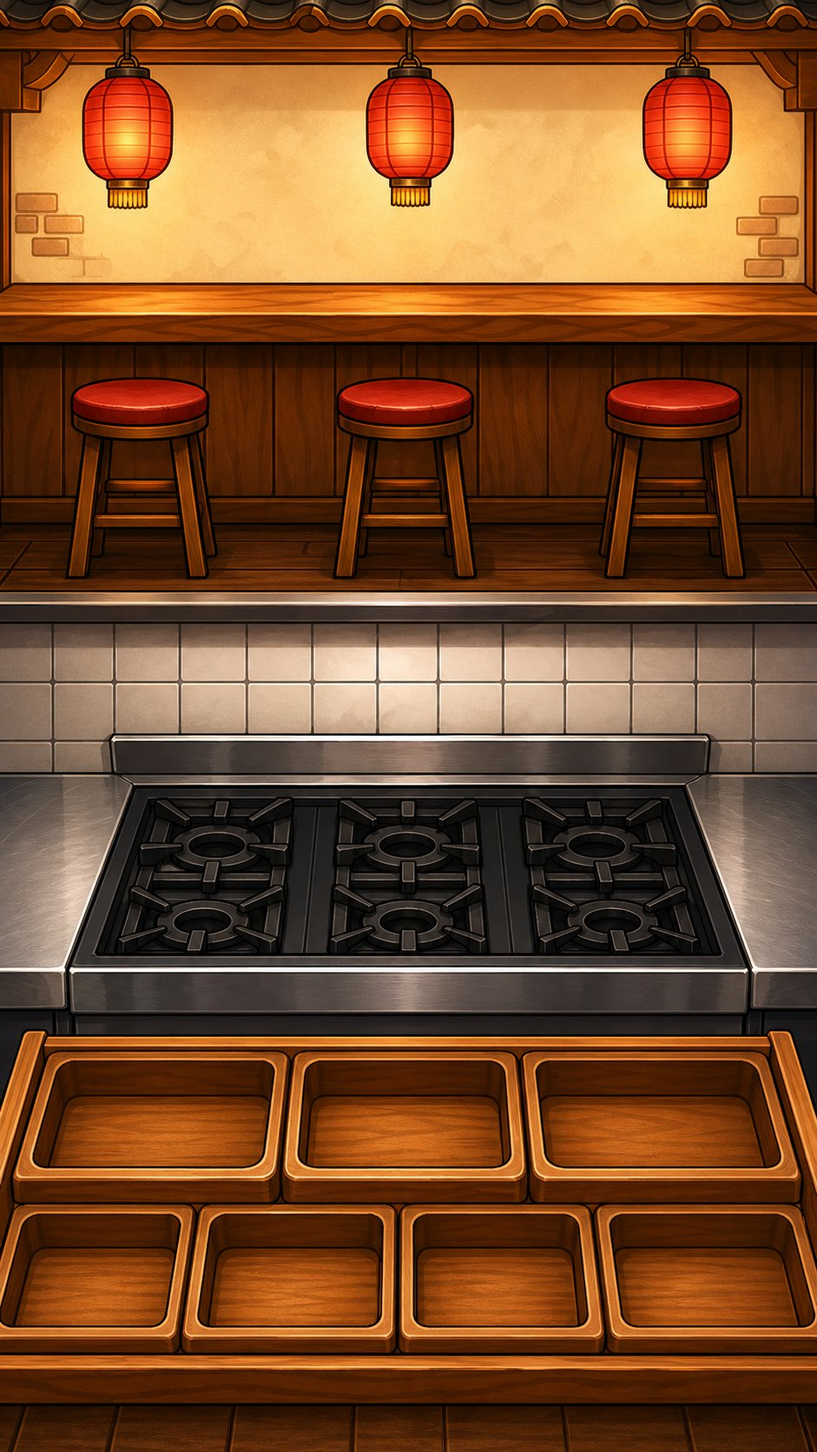
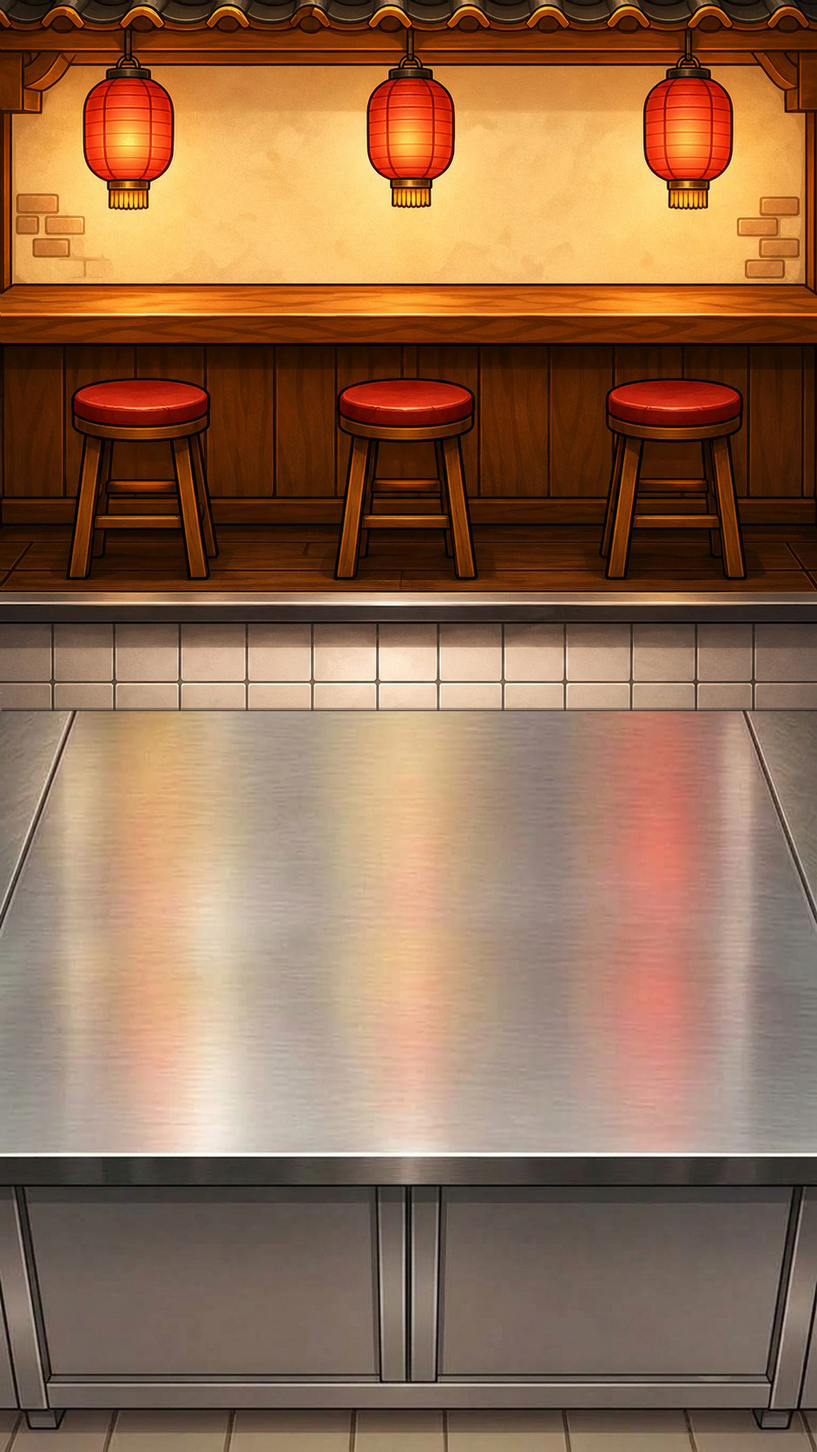
feat: UI 아틀라스 적용 및 메뉴판/타이틀/재료 트레이 레이아웃 개선
- 조리대 배경(kitchen_bg) 확장 및 스테이션 위치 최적화
- 신규 UI 아틀라스(ui_atlas) 적용 및 크로마키 투명화 정렬
- 메인 타이틀 화면 '이어서 영업하기' 버튼 텍스트 오버플로우 방지
- 오늘의 메뉴판 헤더/부제 간격 조정 및 테두리 침범 방지
- 인게임 하단 재료 트레이 폭 확장 및 흰색 한지 배경 내 정렬 최적화

diff --git a/src/components/Screens/MenuBoard.tsx b/src/components/Screens/MenuBoard.tsx
@@ -17,57 +17,57 @@ export function MenuBoard({ save, onOpen, onShop }: { save: SaveData; onOpen: (m
   return (
     <div className="absolute inset-0" style={{ backgroundImage: `url(${bg.kitchen})`, backgroundSize: 'cover', backgroundPosition: 'center' }}>
       <div className="absolute inset-0" style={{ background: 'rgba(15,6,3,0.72)' }} />
-      <div className="absolute w-full text-center" style={{ top: 10 }}>
-        <div className="font-black stroke" style={{ fontSize: 26, color: '#ffe56a' }}>Day {save.day} 오늘의 메뉴판</div>
-        <div className="font-bold text-white stroke-thin" style={{ fontSize: 11 }}>{save.day <= 4 ? '새 메뉴가 해금되었습니다!' : '모든 메뉴가 섞여 주문됩니다'}</div>
+      <div className="absolute w-full text-center flex flex-col items-center pointer-events-none" style={{ top: 6, zIndex: 10 }}>
+        <div className="font-black stroke" style={{ fontSize: 21, color: '#ffe56a', lineHeight: '25px' }}>Day {save.day} 오늘의 메뉴판</div>
+        <div className="font-bold text-white stroke-thin" style={{ fontSize: 11, lineHeight: '14px', marginTop: 1 }}>{save.day <= 4 ? '새 메뉴가 해금되었습니다!' : '모든 메뉴가 섞여 주문됩니다'}</div>
       </div>
       {/* 메뉴판 */}
-      <div className="absolute" style={{ left: 10, top: 58, width: 340, height: 230 }}>
-        <SpriteBox src={atlas.ui} frame={UI.panel} width={340} height={230} style={{ position: 'absolute', inset: 0, pointerEvents: 'none' }} />
-        <div className="absolute grid grid-cols-2" style={{ left: 22, top: 15, width: 296, height: 200, gap: 4 }}>
+      <div className="absolute" style={{ left: 10, top: 48, width: 340, height: 236 }}>
+        <SpriteBox src={atlas.ui} frame={UI.panel} width={340} height={236} style={{ position: 'absolute', inset: 0, pointerEvents: 'none' }} />
+        <div className="absolute grid grid-cols-2" style={{ left: 44, top: 38, width: 252, height: 160, gap: '4px 6px' }}>
           {MENU_ORDER.map((id) => {
             const m = RECIPES[id];
             const locked = !unlocked.includes(id);
             const active = sel === id;
             return (
               <div key={id} className="relative flex flex-col items-center justify-center" style={{ minWidth: 0, height: '100%', cursor: locked ? 'default' : 'pointer' }} onClick={() => !locked && setSel(id)}>
-                <Sprite src={atlas.food} frame={m.foodFrame} size={62} style={{ flexShrink: 0, filter: locked ? 'grayscale(1) brightness(0.5)' : active ? 'drop-shadow(0 0 10px #ffe56a)' : 'drop-shadow(0 3px 3px rgba(0,0,0,0.4))' }} />
-                <div className="font-black text-center flex items-center justify-center" style={{ width: '100%', height: 24, padding: '0 3px', fontSize: 11.5, color: locked ? '#888' : active ? '#b3261e' : '#3b1d0e', lineHeight: '12px', wordBreak: 'keep-all', overflowWrap: 'anywhere' }}>{m.name}</div>
-                <div className="font-bold" style={{ fontSize: 10, lineHeight: '11px', color: locked ? '#777' : '#6b3b1c' }}>{locked ? `Day ${MENU_ORDER.indexOf(id) + 1} 해금` : `${m.price.toLocaleString()}원`}</div>
-                {locked && <Sprite src={atlas.ui} frame={UI.lock} size={36} className="absolute pointer-events-none" style={{ top: 14, left: '50%', transform: 'translateX(-50%)' }} />}
+                <Sprite src={atlas.food} frame={m.foodFrame} size={40} style={{ flexShrink: 0, filter: locked ? 'grayscale(1) brightness(0.5)' : active ? 'drop-shadow(0 0 6px #ffe56a)' : 'drop-shadow(0 2px 2px rgba(0,0,0,0.4))' }} />
+                <div className="font-black text-center flex items-center justify-center" style={{ width: '100%', height: 16, padding: '0 2px', fontSize: 11, color: locked ? '#888' : active ? '#b3261e' : '#3b1d0e', lineHeight: '12px', wordBreak: 'keep-all', overflowWrap: 'anywhere' }}>{m.name}</div>
+                <div className="font-bold" style={{ fontSize: 9, lineHeight: '10px', color: locked ? '#777' : '#6b3b1c' }}>{locked ? `Day ${MENU_ORDER.indexOf(id) + 1} 해금` : `${m.price.toLocaleString()}원`}</div>
+                {locked && <Sprite src={atlas.ui} frame={UI.lock} size={26} className="absolute pointer-events-none" style={{ top: 8, left: '50%', transform: 'translateX(-50%)' }} />}
               </div>
             );
           })}
         </div>
       </div>
       {/* 선택 메뉴 상세 */}
-      <div className="absolute" style={{ left: 10, top: 294, width: 340, height: 254 }}>
-        <SpriteBox src={atlas.ui} frame={UI.panel} width={340} height={254} style={{ position: 'absolute', inset: 0, pointerEvents: 'none' }} />
-        <div key={sel} className="absolute" style={{ left: 25, top: 17, width: 290, height: 218, overflowY: 'auto', overflowX: 'hidden', touchAction: 'pan-y', overscrollBehavior: 'contain', scrollbarWidth: 'thin', scrollbarColor: '#aa6b35 transparent', padding: '0 2px 4px' }}>
+      <div className="absolute" style={{ left: 10, top: 290, width: 340, height: 266 }}>
+        <SpriteBox src={atlas.ui} frame={UI.panel} width={340} height={266} style={{ position: 'absolute', inset: 0, pointerEvents: 'none' }} />
+        <div key={sel} className="absolute" style={{ left: 44, top: 40, width: 252, height: 186, overflowY: 'auto', overflowX: 'hidden', touchAction: 'pan-y', overscrollBehavior: 'contain', scrollbarWidth: 'thin', scrollbarColor: '#aa6b35 transparent', padding: '0 2px 4px' }}>
           <div className="flex items-start" style={{ gap: 8 }}>
-            <Sprite src={atlas.food} frame={r.foodFrame} size={70} style={{ flexShrink: 0, filter: 'drop-shadow(0 2px 2px rgba(0,0,0,0.3))' }} />
+            <Sprite src={atlas.food} frame={r.foodFrame} size={48} style={{ flexShrink: 0, filter: 'drop-shadow(0 2px 2px rgba(0,0,0,0.3))' }} />
             <div style={{ minWidth: 0, flex: 1 }}>
-              <div className="font-black" style={{ fontSize: 14, lineHeight: '17px', color: '#b3261e', wordBreak: 'keep-all', overflowWrap: 'anywhere' }}>{r.name}</div>
-              <div className="font-bold" style={{ fontSize: 9.5, lineHeight: '13px', color: '#8a481c' }}>난이도 {'★'.repeat(r.difficulty)}{'☆'.repeat(4 - r.difficulty)}</div>
-              <div className="font-bold" style={{ fontSize: 10, lineHeight: '13px', color: '#4a2a12', wordBreak: 'keep-all', overflowWrap: 'anywhere' }}>{r.desc}</div>
+              <div className="font-black" style={{ fontSize: 13, lineHeight: '16px', color: '#b3261e', wordBreak: 'keep-all', overflowWrap: 'anywhere' }}>{r.name}</div>
+              <div className="font-bold" style={{ fontSize: 9, lineHeight: '12px', color: '#8a481c' }}>난이도 {'★'.repeat(r.difficulty)}{'☆'.repeat(4 - r.difficulty)}</div>
+              <div className="font-bold" style={{ fontSize: 9, lineHeight: '12px', color: '#4a2a12', wordBreak: 'keep-all', overflowWrap: 'anywhere' }}>{r.desc}</div>
             </div>
           </div>
-          <div className="font-black" style={{ fontSize: 11, color: '#3b1d0e', marginTop: 6, lineHeight: '15px' }}>필요 재료</div>
-          <div className="grid grid-cols-5" style={{ width: '100%', rowGap: 3, marginTop: 2 }}>
+          <div className="font-black" style={{ fontSize: 10.5, color: '#3b1d0e', marginTop: 4, lineHeight: '14px' }}>필요 재료</div>
+          <div className="grid grid-cols-5" style={{ width: '100%', rowGap: 2, marginTop: 2 }}>
             {r.ingredients.map((i) => (
-              <div key={i} className="flex flex-col items-center" style={{ minWidth: 0, minHeight: 43 }}>
-                <Sprite src={atlas.ingredients} frame={ING[i]} size={28} style={{ flexShrink: 0 }} />
-                <div className="font-bold text-center" style={{ width: '100%', fontSize: 8.5, lineHeight: '10px', color: '#4a2a12', wordBreak: 'keep-all', overflowWrap: 'anywhere' }}>{ING_NAME[i]}</div>
+              <div key={i} className="flex flex-col items-center" style={{ minWidth: 0, minHeight: 36 }}>
+                <Sprite src={atlas.ingredients} frame={ING[i]} size={22} style={{ flexShrink: 0 }} />
+                <div className="font-bold text-center" style={{ width: '100%', fontSize: 8, lineHeight: '10px', color: '#4a2a12', wordBreak: 'keep-all', overflowWrap: 'anywhere' }}>{ING_NAME[i]}</div>
               </div>
             ))}
           </div>
-          <div className="font-black" style={{ fontSize: 11, color: '#3b1d0e', marginTop: 6, lineHeight: '15px' }}>조리법 ({r.steps.length}단계)</div>
-          <div className="font-bold" style={{ fontSize: 10, color: '#4a2a12', lineHeight: '14px', wordBreak: 'keep-all', overflowWrap: 'anywhere' }}>{stepKinds.map((k) => kindName[k]).join(' → ')}</div>
+          <div className="font-black" style={{ fontSize: 10.5, color: '#3b1d0e', marginTop: 4, lineHeight: '14px' }}>조리법 ({r.steps.length}단계)</div>
+          <div className="font-bold" style={{ fontSize: 9, color: '#4a2a12', lineHeight: '12px', wordBreak: 'keep-all', overflowWrap: 'anywhere' }}>{stepKinds.map((k) => kindName[k]).join(' → ')}</div>
         </div>
       </div>
-      <div className="absolute w-full flex items-center justify-center gap-3" style={{ bottom: 18 }}>
-        <ImgButton label="업그레이드" onClick={onShop} kind="wood" width={120} height={56} fontSize={15} />
-        <ImgButton label="영업 시작!" onClick={() => onOpen(sel)} kind="red" width={180} height={64} fontSize={22} className="anim-pulse" />
+      <div className="absolute w-full flex items-center justify-center gap-3" style={{ bottom: 14 }}>
+        <ImgButton label="업그레이드" onClick={onShop} kind="wood" width={110} height={54} fontSize={14} />
+        <ImgButton label="영업 시작!" onClick={() => onOpen(sel)} kind="red" width={180} height={62} fontSize={20} className="anim-pulse" />
       </div>
     </div>
   );

diff --git a/src/components/Game/GameScreen.tsx b/src/components/Game/GameScreen.tsx
@@ -11,6 +11,7 @@ import { AddStep, FireStep, HeatStep, PourStep, ShakeStep, StirStep, STOVE, Tran
 import { MixStep, NoodleStep, PlateStep, ServeStep } from './steps/NoodleSteps';
 import { ChopStep, FryStep, ShapeStep, TossStep } from './steps/FrySteps';
 import { sfx } from '../../game/sfx';
+import { ImgButton } from '../ImgButton';
 
 interface Cook {
   menu: MenuId;
@@ -33,6 +34,7 @@ interface Props {
   preferredMenu: MenuId | null;
   practice?: boolean;
   onPracticeBack?: () => void;
+  onMainMenu?: () => void;
 }
 
 export function GameScreen(props: Props) {
@@ -43,7 +45,7 @@ export function GameScreen(props: Props) {
   );
 }
 
-function GameInner({ save, onMoney, onDayEnd, preferredMenu, practice, onPracticeBack }: Props) {
+function GameInner({ save, onMoney, onDayEnd, preferredMenu, practice, onPracticeBack, onMainMenu }: Props) {
   const { atlas, bg } = useAssets();
   const { dragging } = useDrag();
   const day = save.day;
@@ -344,6 +346,13 @@ function GameInner({ save, onMoney, onDayEnd, preferredMenu, practice, onPractic
     cancelTimer.current = window.setTimeout(() => setCancelArmed(false), 3000);
   };
 
+  const returnToMainMenu = () => {
+    const message = cook
+      ? '조리 중인 음식과 오늘 영업 진행을 취소하고 메인 메뉴로 돌아갈까요?'
+      : '오늘 영업을 종료하고 메인 메뉴로 돌아갈까요?';
+    if (confirm(message)) onMainMenu?.();
+  };
+
   // ── 두꺼비 포즈 ──
   const toadPose: ToadPose = toadFlash ?? (cook ? toadBase : 'idle1');
   const toadFrames = useMemo(() => (toadPose === 'idle1' && !cook ? [TOAD.idle1, TOAD.idle2] : [TOAD[toadPose]]), [toadPose, cook]);
@@ -388,6 +397,17 @@ function GameInner({ save, onMoney, onDayEnd, preferredMenu, practice, onPractic
             <span className="font-black text-yellow-200" style={{ fontSize: 11 }}>메뉴로</span>
           </div>
         </>
+      )}
+      {!practice && onMainMenu && (
+        <ImgButton
+          label="메인 메뉴"
+          onClick={returnToMainMenu}
+          kind="wood"
+          width={64}
+          height={30}
+          fontSize={10}
+          style={{ position: 'absolute', right: 4, top: 42, zIndex: 12 }}
+        />
       )}
       {/* ── 상단: 간판/돈/일차 ── */}
       <div className="absolute pointer-events-none" style={{ left: 0, top: 0, width: 360, height: 74, zIndex: 10 }}>
@@ -463,9 +483,10 @@ function GameInner({ save, onMoney, onDayEnd, preferredMenu, practice, onPractic
       </div>
 
       {/* ── 하단 재료 트레이 ── */}
-      <div className="absolute" style={{ left: 0, top: 517, width: 360, height: 123, zIndex: 9 }}>
-        <SpriteBox src={atlas.ui} frame={UI.panel} width={360} height={123} style={{ position: 'absolute', inset: 0, opacity: 0.95 }} />
-        <div className="absolute" style={{ left: 8, top: 6, width: 300, height: 112, display: 'flex', flexWrap: 'wrap', alignContent: 'flex-start' }}>
+      {/* ── 하단 재료 트레이 ── */}
+      <div className="absolute" style={{ left: -12, top: 510, width: 384, height: 130, zIndex: 9 }}>
+        <SpriteBox src={atlas.ui} frame={UI.panel} width={384} height={130} style={{ position: 'absolute', inset: 0, opacity: 0.98 }} />
+        <div className="absolute" style={{ left: 58, top: 16, width: 254, height: 96, display: 'flex', flexWrap: 'wrap', alignContent: 'flex-start', gap: '3px 2px' }}>
           {trayItems.map((id) => (
             <TrayItem key={id} id={id} highlight={neededNow.includes(id)} dim={neededNow.length > 0 && !neededNow.includes(id)} />
           ))}
@@ -481,11 +502,11 @@ function GameInner({ save, onMoney, onDayEnd, preferredMenu, practice, onPractic
           data-drop="trash"
           onClick={cancelCook}
           className={orderCustomerLeft && cook ? 'absolute anim-pulse' : 'absolute'}
-          style={{ right: 2, top: 18, width: 60, height: 86, border: 0, padding: 0, background: 'transparent', cursor: cook ? 'pointer' : 'default', touchAction: 'manipulation', opacity: cook ? 1 : 0.5 }}
+          style={{ right: 18, top: 18, width: 48, height: 76, border: 0, padding: 0, background: 'transparent', cursor: cook ? 'pointer' : 'default', touchAction: 'manipulation', opacity: cook ? 1 : 0.5 }}
         >
-          <Sprite src={atlas.ui} frame={UI.btnRound} size={60} className="pointer-events-none" style={{ position: 'absolute', top: 0, left: 0, filter: orderCustomerLeft ? 'drop-shadow(0 0 8px #ff8e55)' : undefined }} />
-          <Sprite src={atlas.ui} frame={orderCustomerLeft ? UI.x : UI.trash} size={32} className="pointer-events-none" style={{ position: 'absolute', left: 14, top: 12 }} />
-          <span className="absolute font-black text-white stroke-thin pointer-events-none" style={{ left: 0, top: 63, width: 60, fontSize: 10 }}>{cancelArmed && !orderCustomerLeft ? '다시 누르기' : '조리 취소'}</span>
+          <Sprite src={atlas.ui} frame={UI.btnRound} size={48} className="pointer-events-none" style={{ position: 'absolute', top: 0, left: 0, filter: orderCustomerLeft ? 'drop-shadow(0 0 8px #ff8e55)' : undefined }} />
+          <Sprite src={atlas.ui} frame={orderCustomerLeft ? UI.x : UI.trash} size={24} className="pointer-events-none" style={{ position: 'absolute', left: 12, top: 12 }} />
+          <span className="absolute font-black text-white stroke-thin pointer-events-none" style={{ left: 0, top: 52, width: 48, fontSize: 9 }}>{cancelArmed && !orderCustomerLeft ? '다시 누르기' : '조리 취소'}</span>
         </button>
       </div>
     </div>
@@ -496,10 +517,10 @@ function TrayItem({ id, highlight, dim }: { id: IngredientId; highlight: boolean
   const { atlas } = useAssets();
   const { startDrag } = useDrag();
   return (
-    <div className="flex flex-col items-center" style={{ width: 50, height: 56, touchAction: 'none', opacity: dim ? 0.55 : 1 }}
+    <div className="flex flex-col items-center justify-center" style={{ width: 48, height: 42, touchAction: 'none', opacity: dim ? 0.55 : 1, cursor: 'grab' }}
       onPointerDown={(e) => startDrag(e, { type: 'ingredient', id, atlas: 'ingredients', frame: ING[id], size: 60 })}>
-      <Sprite src={atlas.ingredients} frame={ING[id]} size={44} className={highlight ? 'anim-pulse' : ''} style={{ filter: highlight ? 'drop-shadow(0 0 6px #ffe56a)' : 'drop-shadow(0 2px 2px rgba(0,0,0,0.3))' }} />
-      <div className="font-bold" style={{ fontSize: 9, color: highlight ? '#b3261e' : '#4a2a12', marginTop: -2 }}>{ING_NAME[id]}</div>
+      <Sprite src={atlas.ingredients} frame={ING[id]} size={28} className={highlight ? 'anim-pulse' : ''} style={{ filter: highlight ? 'drop-shadow(0 0 6px #ffe56a)' : 'drop-shadow(0 2px 2px rgba(0,0,0,0.3))' }} />
+      <div className="font-bold text-center" style={{ width: '100%', fontSize: 8.5, lineHeight: '10px', color: highlight ? '#b3261e' : '#4a2a12', marginTop: 1, wordBreak: 'keep-all' }}>{ING_NAME[id]}</div>
     </div>
   );
 }

diff --git a/src/components/Screens/PracticeScreen.tsx b/src/components/Screens/PracticeScreen.tsx
@@ -38,21 +38,21 @@ export function PracticeScreen({ onBack }: { onBack: () => void }) {
   return (
     <div className="absolute inset-0" style={{ backgroundImage: `url(${bg.kitchen})`, backgroundSize: 'cover', backgroundPosition: 'center' }}>
       <div className="absolute inset-0" style={{ background: 'rgba(15,6,3,0.72)' }} />
-      <div className="absolute w-full text-center" style={{ top: 10 }}>
-        <div className="font-black stroke" style={{ fontSize: 24, color: '#ffe56a' }}>연습 모드</div>
-        <div className="font-bold text-white stroke-thin" style={{ fontSize: 11 }}>메뉴를 골라 자유롭게 조리해보세요</div>
+      <div className="absolute w-full text-center flex flex-col items-center pointer-events-none" style={{ top: 8, zIndex: 10 }}>
+        <div className="font-black stroke" style={{ fontSize: 22, color: '#ffe56a', lineHeight: '26px' }}>연습 모드</div>
+        <div className="font-bold text-white stroke-thin" style={{ fontSize: 11, lineHeight: '14px', marginTop: 2 }}>메뉴를 골라 자유롭게 조리해보세요</div>
       </div>
       {/* 메뉴 선택 */}
-      <div className="absolute" style={{ left: 10, top: 54, width: 340, height: 160 }}>
+      <div className="absolute" style={{ left: 10, top: 48, width: 340, height: 160 }}>
         <SpriteBox src={atlas.ui} frame={UI.panel} width={340} height={160} style={{ position: 'absolute', inset: 0, pointerEvents: 'none' }} />
-        <div className="absolute grid grid-cols-4" style={{ left: 14, top: 12, width: 312, height: 136, gap: 4 }}>
+        <div className="absolute grid grid-cols-4" style={{ left: 44, top: 32, width: 252, height: 96, gap: 4 }}>
           {MENU_ORDER.map((id) => {
             const m = RECIPES[id];
             const active = sel === id;
             return (
               <div key={id} className="relative flex flex-col items-center justify-center" style={{ cursor: 'pointer' }} onClick={() => setSel(id)}>
-                <Sprite src={atlas.food} frame={m.foodFrame} size={active ? 68 : 58} style={{ flexShrink: 0, filter: active ? 'drop-shadow(0 0 10px #ffe56a)' : 'drop-shadow(0 3px 3px rgba(0,0,0,0.4))' }} />
-                <div className="font-black text-center" style={{ fontSize: 10.5, color: active ? '#b3261e' : '#3b1d0e', lineHeight: '11px', wordBreak: 'keep-all' }}>{m.name}</div>
+                <Sprite src={atlas.food} frame={m.foodFrame} size={active ? 46 : 40} style={{ flexShrink: 0, filter: active ? 'drop-shadow(0 0 6px #ffe56a)' : 'drop-shadow(0 2px 2px rgba(0,0,0,0.4))' }} />
+                <div className="font-black text-center" style={{ fontSize: 10, color: active ? '#b3261e' : '#3b1d0e', lineHeight: '12px', wordBreak: 'keep-all' }}>{m.name}</div>
               </div>
             );
           })}
@@ -61,26 +61,26 @@ export function PracticeScreen({ onBack }: { onBack: () => void }) {
       {/* 선택 메뉴 상세 */}
       <div className="absolute" style={{ left: 10, top: 220, width: 340, height: 280 }}>
         <SpriteBox src={atlas.ui} frame={UI.panel} width={340} height={280} style={{ position: 'absolute', inset: 0, pointerEvents: 'none' }} />
-        <div key={sel} className="absolute" style={{ left: 25, top: 17, width: 290, height: 246, overflowY: 'auto', overflowX: 'hidden', touchAction: 'pan-y', overscrollBehavior: 'contain', padding: '0 2px 4px' }}>
+        <div key={sel} className="absolute" style={{ left: 44, top: 40, width: 252, height: 200, overflowY: 'auto', overflowX: 'hidden', touchAction: 'pan-y', overscrollBehavior: 'contain', padding: '0 2px 4px' }}>
           <div className="flex items-start" style={{ gap: 8 }}>
-            <Sprite src={atlas.food} frame={r.foodFrame} size={70} style={{ flexShrink: 0 }} />
+            <Sprite src={atlas.food} frame={r.foodFrame} size={48} style={{ flexShrink: 0 }} />
             <div style={{ minWidth: 0, flex: 1 }}>
-              <div className="font-black" style={{ fontSize: 14, lineHeight: '17px', color: '#b3261e' }}>{r.name}</div>
-              <div className="font-bold" style={{ fontSize: 9.5, lineHeight: '13px', color: '#8a481c' }}>난이도 {'★'.repeat(r.difficulty)}{'☆'.repeat(4 - r.difficulty)}</div>
-              <div className="font-bold" style={{ fontSize: 10, lineHeight: '13px', color: '#4a2a12', wordBreak: 'keep-all' }}>{r.desc}</div>
+              <div className="font-black" style={{ fontSize: 13, lineHeight: '16px', color: '#b3261e' }}>{r.name}</div>
+              <div className="font-bold" style={{ fontSize: 9, lineHeight: '12px', color: '#8a481c' }}>난이도 {'★'.repeat(r.difficulty)}{'☆'.repeat(4 - r.difficulty)}</div>
+              <div className="font-bold" style={{ fontSize: 9, lineHeight: '12px', color: '#4a2a12', wordBreak: 'keep-all' }}>{r.desc}</div>
             </div>
           </div>
-          <div className="font-black" style={{ fontSize: 11, color: '#3b1d0e', marginTop: 6, lineHeight: '15px' }}>필요 재료</div>
-          <div className="grid grid-cols-5" style={{ width: '100%', rowGap: 3, marginTop: 2 }}>
+          <div className="font-black" style={{ fontSize: 10.5, color: '#3b1d0e', marginTop: 4, lineHeight: '14px' }}>필요 재료</div>
+          <div className="grid grid-cols-5" style={{ width: '100%', rowGap: 2, marginTop: 2 }}>
             {r.ingredients.map((i) => (
-              <div key={i} className="flex flex-col items-center" style={{ minWidth: 0, minHeight: 43 }}>
-                <Sprite src={atlas.ingredients} frame={ING[i]} size={28} />
-                <div className="font-bold text-center" style={{ fontSize: 8.5, lineHeight: '10px', color: '#4a2a12', wordBreak: 'keep-all' }}>{ING_NAME[i]}</div>
+              <div key={i} className="flex flex-col items-center" style={{ minWidth: 0, minHeight: 36 }}>
+                <Sprite src={atlas.ingredients} frame={ING[i]} size={22} />
+                <div className="font-bold text-center" style={{ width: '100%', fontSize: 8, lineHeight: '10px', color: '#4a2a12', wordBreak: 'keep-all' }}>{ING_NAME[i]}</div>
               </div>
             ))}
           </div>
-          <div className="font-black" style={{ fontSize: 11, color: '#3b1d0e', marginTop: 6, lineHeight: '15px' }}>조리법 ({r.steps.length}단계)</div>
-          <div className="font-bold" style={{ fontSize: 10, color: '#4a2a12', lineHeight: '14px', wordBreak: 'keep-all' }}>{stepKinds.map((k) => kindName[k]).join(' → ')}</div>
+          <div className="font-black" style={{ fontSize: 10.5, color: '#3b1d0e', marginTop: 4, lineHeight: '14px' }}>조리법 ({r.steps.length}단계)</div>
+          <div className="font-bold" style={{ fontSize: 9, color: '#4a2a12', lineHeight: '12px', wordBreak: 'keep-all' }}>{stepKinds.map((k) => kindName[k]).join(' → ')}</div>
         </div>
       </div>
       <div className="absolute w-full flex items-center justify-center gap-3" style={{ bottom: 18 }}>

diff --git a/src/components/Screens/ShopScreen.tsx b/src/components/Screens/ShopScreen.tsx
@@ -1,3 +1,4 @@
+import { useRef } from 'react';
 import { Sprite, SpriteBox } from '../Sprite';
 import { ImgButton } from '../ImgButton';
 import { useAssets } from '../../game/AssetContext';
@@ -6,6 +7,34 @@ import { SaveData, UpgradeId, UPGRADES } from '../../game/save';
 
 export function ShopScreen({ save, onBuy, onDone }: { save: SaveData; onBuy: (id: UpgradeId) => void; onDone: () => void }) {
   const { atlas, bg } = useAssets();
+  const scrollRef = useRef<HTMLDivElement>(null);
+  const dragRef = useRef<{ pointerId: number; x: number; y: number; left: number; top: number } | null>(null);
+
+  const beginScroll = (e: React.PointerEvent<HTMLDivElement>) => {
+    if ((e.target as HTMLElement).closest('[data-shop-no-scroll="true"]')) return;
+    if (e.pointerType === 'mouse' && e.button !== 0) return;
+    const el = scrollRef.current;
+    if (!el) return;
+    dragRef.current = { pointerId: e.pointerId, x: e.clientX, y: e.clientY, left: el.scrollLeft, top: el.scrollTop };
+    el.setPointerCapture(e.pointerId);
+  };
+
+  const moveScroll = (e: React.PointerEvent<HTMLDivElement>) => {
+    const start = dragRef.current;
+    const el = scrollRef.current;
+    if (!start || !el || start.pointerId !== e.pointerId) return;
+    const rect = el.getBoundingClientRect();
+    const scaleX = el.clientWidth / Math.max(1, rect.width);
+    const scaleY = el.clientHeight / Math.max(1, rect.height);
+    el.scrollLeft = start.left - (e.clientX - start.x) * scaleX;
+    el.scrollTop = start.top - (e.clientY - start.y) * scaleY;
+    if (Math.abs(e.clientX - start.x) + Math.abs(e.clientY - start.y) > 4) e.preventDefault();
+  };
+
+  const endScroll = (e: React.PointerEvent<HTMLDivElement>) => {
+    if (dragRef.current?.pointerId === e.pointerId) dragRef.current = null;
+  };
+
   return (
     <div className="absolute inset-0" style={{ backgroundImage: `url(${bg.kitchen})`, backgroundSize: 'cover', backgroundPosition: 'center' }}>
       <div className="absolute inset-0" style={{ background: 'rgba(15,6,3,0.78)' }} />
@@ -16,7 +45,21 @@ export function ShopScreen({ save, onBuy, onDone }: { save: SaveData; onBuy: (id
           <div className="font-black text-yellow-200 stroke" style={{ fontSize: 16 }}>{save.money.toLocaleString()}원</div>
         </div>
       </div>
-      <div className="absolute overflow-y-auto" style={{ left: 8, top: 66, width: 344, height: 490, touchAction: 'pan-y' }}>
+      <div
+        ref={scrollRef}
+        className="shop-scroll absolute"
+        style={{ left: 8, top: 66, width: 344, height: 490, touchAction: 'none', cursor: 'grab' }}
+        onPointerDown={beginScroll}
+        onPointerMove={moveScroll}
+        onPointerUp={endScroll}
+        onPointerCancel={endScroll}
+        onWheel={(e) => {
+          const el = scrollRef.current;
+          if (!el) return;
+          el.scrollTop += e.deltaY;
+          el.scrollLeft += e.deltaX;
+        }}
+      >
         <div className="grid grid-cols-2" style={{ gap: 6 }}>
           {UPGRADES.map((u) => {
             const owned = save.upgrades[u.id];
@@ -38,7 +81,7 @@ export function ShopScreen({ save, onBuy, onDone }: { save: SaveData; onBuy: (id
                       <div className="font-black" style={{ fontSize: 12, color: '#2e7d32' }}>구매 완료</div>
                     </div>
                   ) : (
-                    <ImgButton label={`${u.cost.toLocaleString()}원`} onClick={() => onBuy(u.id)} kind={can ? 'red' : 'wood'} disabled={!can} width={120} height={36} fontSize={13} style={{ marginTop: 2 }} />
+                    <ImgButton label={`${u.cost.toLocaleString()}원`} onClick={() => onBuy(u.id)} kind={can ? 'red' : 'wood'} disabled={!can} width={120} height={36} fontSize={13} style={{ marginTop: 2 }} noShopScroll />
                   )}
                 </div>
               </div>

diff --git a/src/components/ImgButton.tsx b/src/components/ImgButton.tsx
@@ -14,15 +14,17 @@ interface Props {
   style?: CSSProperties;
   fontSize?: number;
   className?: string;
+  noShopScroll?: boolean;
 }
 
 /** PNG 아틀라스 기반 이미지 버튼 (텍스트 라벨 오버레이) */
-export function ImgButton({ label, onClick, kind = 'wood', width = 200, height = 64, disabled, style, fontSize = 20, className }: Props) {
+export function ImgButton({ label, onClick, kind = 'wood', width = 200, height = 64, disabled, style, fontSize = 20, className, noShopScroll }: Props) {
   const { atlas } = useAssets();
   const frame = kind === 'wood' ? UI.btnWood : kind === 'red' ? UI.btnRed : UI.btnRound;
   return (
     <div
       className={'relative select-none ' + (className ?? '')}
+      data-shop-no-scroll={noShopScroll ? 'true' : undefined}
       style={{
         width, height,
         opacity: disabled ? 0.45 : 1,
@@ -44,7 +46,7 @@ export function ImgButton({ label, onClick, kind = 'wood', width = 200, height =
       />
       <div
         className="absolute inset-0 flex items-center justify-center font-black text-white stroke"
-        style={{ fontSize, letterSpacing: 1 }}
+        style={{ fontSize, letterSpacing: 0.5, padding: '0 18px', textAlign: 'center', whiteSpace: 'nowrap', overflow: 'hidden', textOverflow: 'ellipsis' }}
       >
         {label}
       </div>

diff --git a/src/components/Screens/TitleScreen.tsx b/src/components/Screens/TitleScreen.tsx
@@ -24,7 +24,7 @@ export function TitleScreen({ save, onStart, onReset, onPractice }: { save: Save
       </div>
       {/* 버튼 */}
       <div className="absolute w-full flex flex-col items-center gap-3" style={{ bottom: 40 }}>
-        <ImgButton label={hasSave ? `이어서 영업하기 (Day ${save.day})` : '영업 시작'} onClick={onStart} kind="red" width={250} height={70} fontSize={hasSave ? 19 : 24} className="anim-pulse" />
+        <ImgButton label={hasSave ? `이어서 영업하기 (Day ${save.day})` : '영업 시작'} onClick={onStart} kind="red" width={276} height={68} fontSize={hasSave ? 16.5 : 24} className="anim-pulse" />
         {hasSave && <ImgButton label="처음부터" onClick={onReset} kind="wood" width={160} height={50} fontSize={15} />}
         <ImgButton label="메뉴 연습해보기" onClick={onPractice} kind="wood" width={200} height={56} fontSize={16} className="anim-bob" />
         <div className="flex items-center gap-1 mt-1">

diff --git a/src/App.tsx b/src/App.tsx
@@ -99,7 +99,7 @@ export default function App() {
           />
         )}
         {screen === 'menu' && <MenuBoard save={save} onOpen={(m) => { setPreferred(m); setGameKey((k) => k + 1); setScreen('game'); }} onShop={() => setScreen('shop')} />}
-        {screen === 'game' && <GameScreen key={gameKey} save={save} onMoney={onMoney} onDayEnd={onDayEnd} preferredMenu={preferred} />}
+        {screen === 'game' && <GameScreen key={gameKey} save={save} onMoney={onMoney} onDayEnd={onDayEnd} preferredMenu={preferred} onMainMenu={() => setScreen('title')} />}
         {screen === 'dayend' && dayStats && <DayEndScreen day={endedDay} stats={dayStats} onNext={() => setScreen('shop')} />}
         {screen === 'shop' && <ShopScreen save={save} onBuy={buy} onDone={() => setScreen('menu')} />}
         {screen === 'practice' && <PracticeScreen onBack={() => setScreen('title')} />}

diff --git a/src/index.css b/src/index.css
@@ -47,3 +47,16 @@ html, body, #root {
 .anim-steam { animation: steamRise 1.6s ease-out infinite; }
 .anim-shake { animation: shakeX 0.3s ease-in-out infinite; }
 .anim-wobble { animation: wobble 0.6s ease-in-out infinite; }
+
+.shop-scroll {
+  overflow: auto;
+  scrollbar-width: none;
+  -ms-overflow-style: none;
+  overscroll-behavior: contain;
+  -webkit-overflow-scrolling: touch;
+}
+.shop-scroll::-webkit-scrollbar {
+  display: none;
+  width: 0;
+  height: 0;
+}
